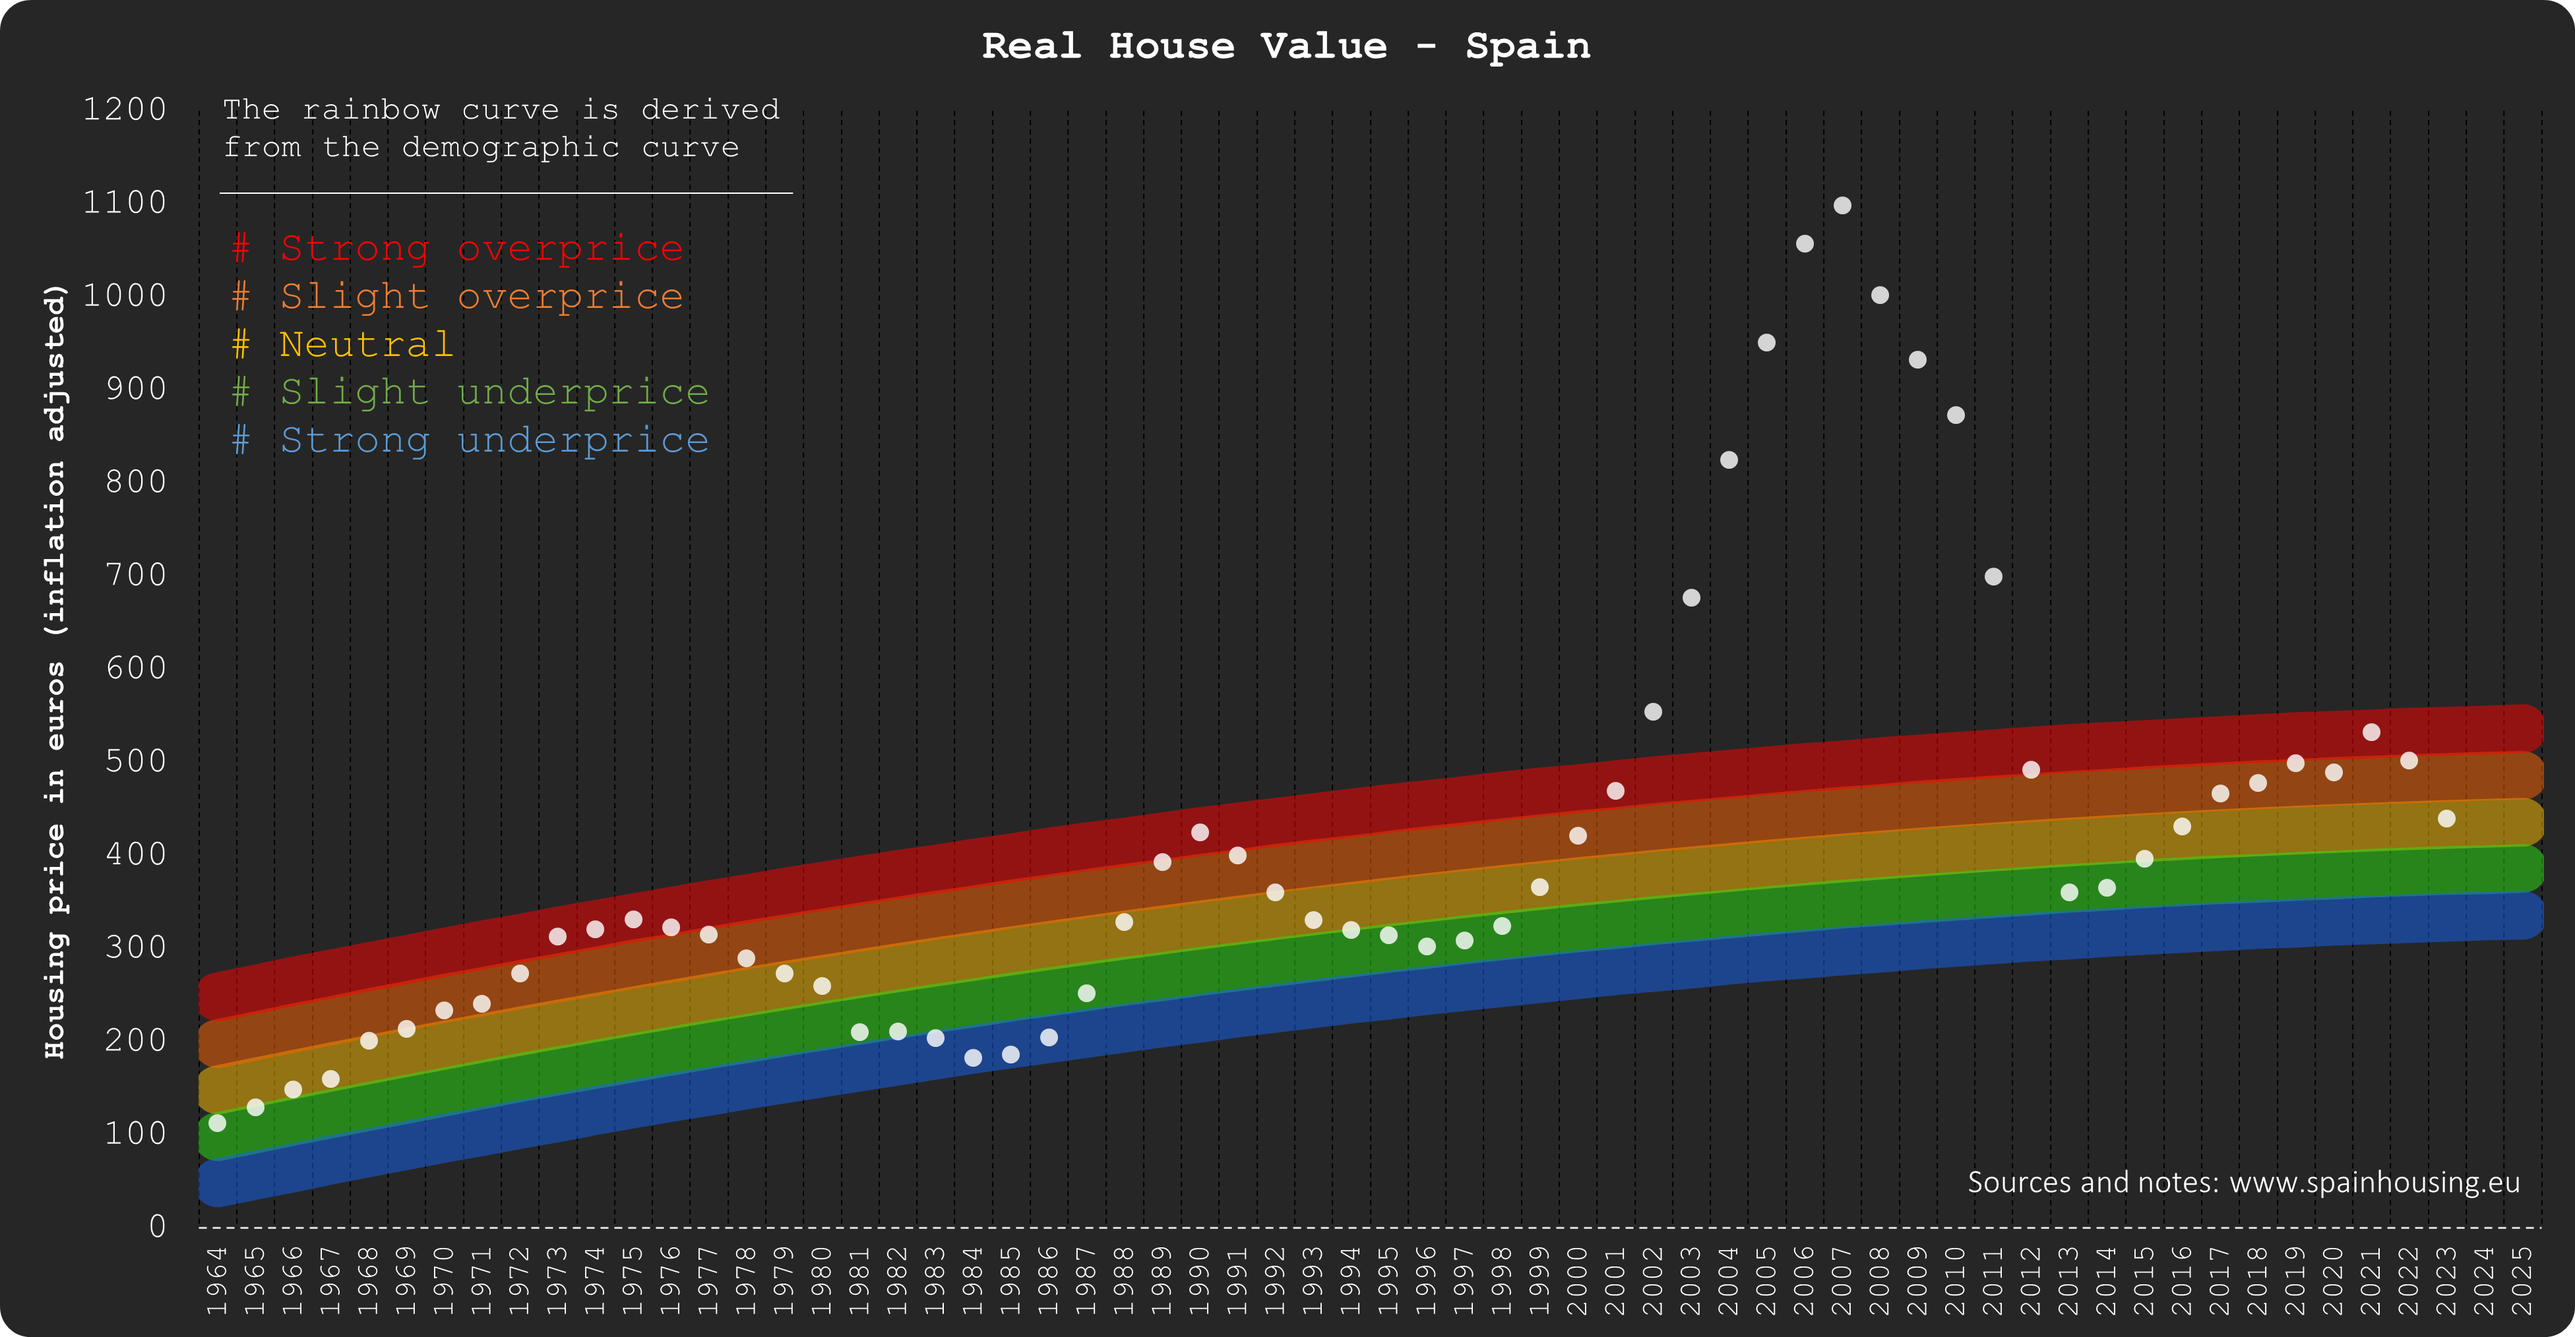
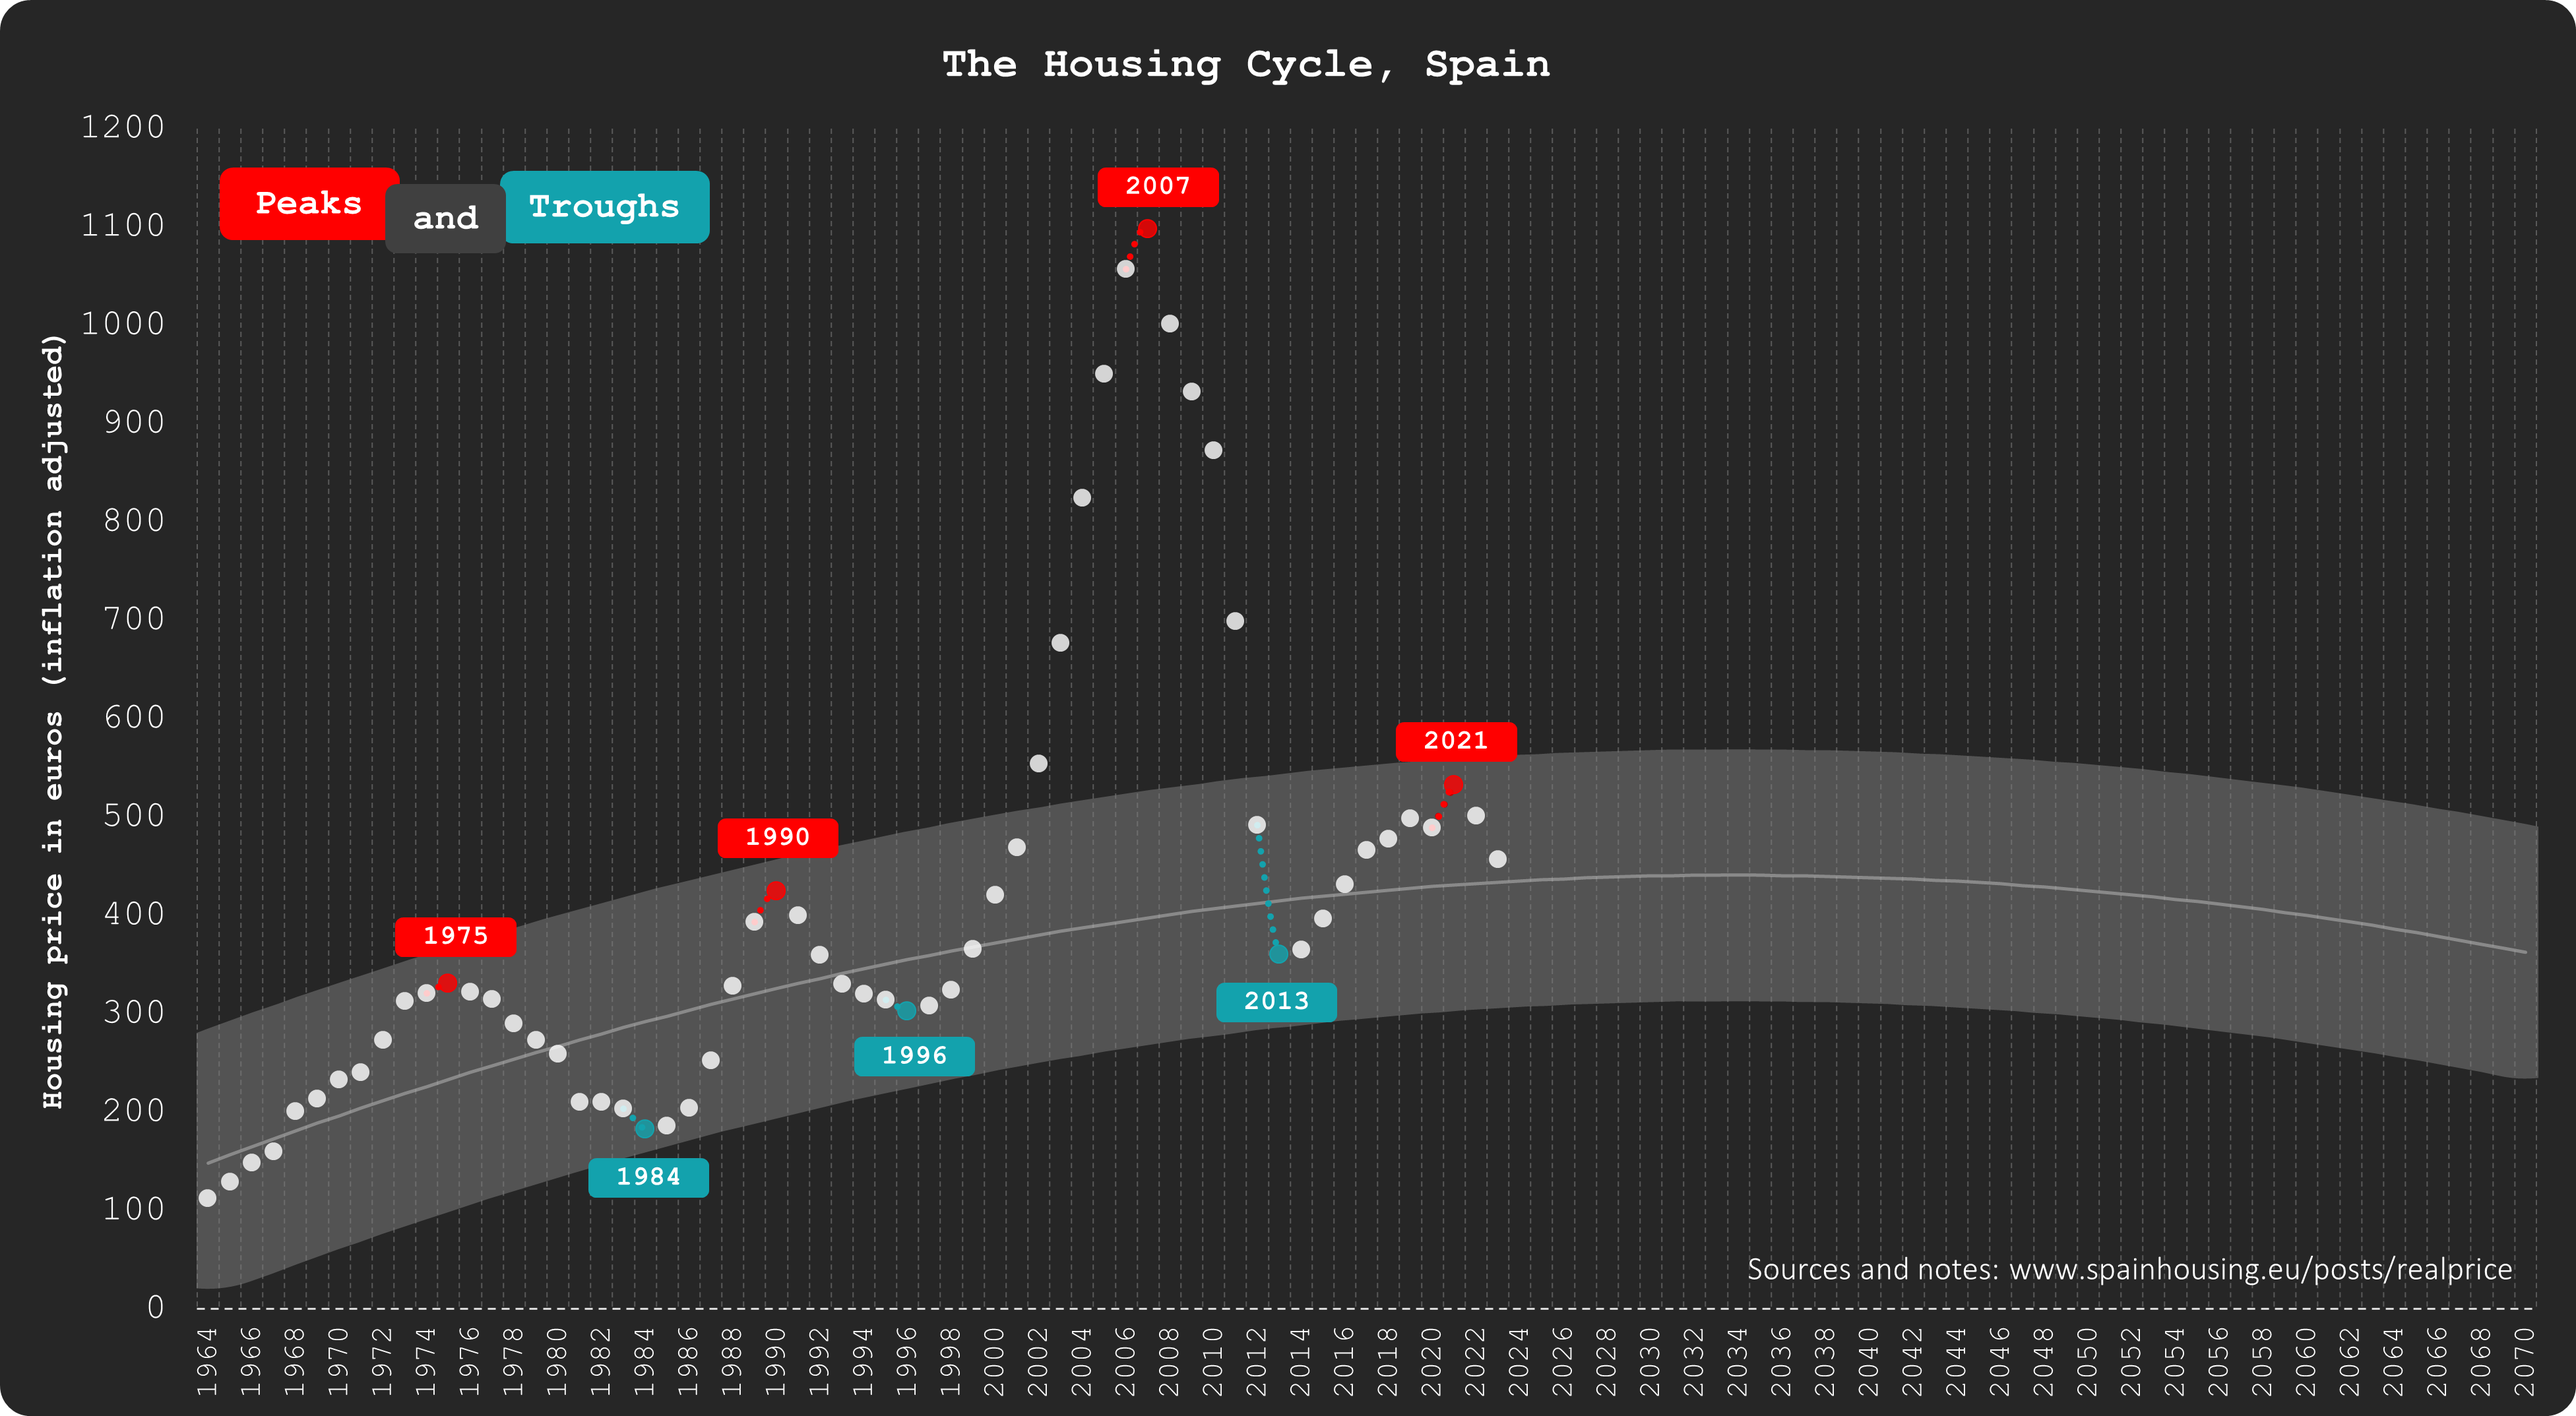
update_sept

diff --git a/pages/posts/rainbow.md b/pages/posts/rainbow.md
@@ -8,9 +8,11 @@ author: Last update on
 
 import Image from 'next/image'
 
-# Rainbow model: housing cycles
+<div class="meta-line"><a class="meta-back" href="/">← Back to home page</a></div>
 
-[![Ciclos inmobiliarios](/images/rainbow.png)](/images/rainbow.png)
+# Demographic model: housing cycles
+
+[![Ciclos inmobiliarios](/images/rainbowmax.png)](/images/rainbowmax.png)
 
 - **Color range interpretation** ➞ **Red** = strong overprice; **Orange** = slightly overprice; **Yellow** = neutral; **Green** = slightly underprice; **Blue** = strong underprice.
 
@@ -21,12 +23,12 @@ This is an experimental indicator, open to improvements and corrections.
 Must be read as an informative indicator, not a scientific measure.
 ```
 
-The rainbow curve describes a demographic channel, which, overlapped with the real price, evaluates the stage of the price cycle. A few notes and considerations:
+The rainbow curve describes a demographic band, which, overlapped with the real price, evaluates the stage of the price cycle. A few notes and considerations:
 
 - The real price data is derived from an alternative formula, [real price notes](realprice).
-- The demographic curve has been price-adjusted, generating the rainbow curve.
-- The equation from the rainbow curve is derived from the demographic curve (quadratic function).
-- The yellow line is the reference line, adding two levels up and two levels down.
+- The rainbow curve is a trendline equation derived from the demographic curve (quadratic function).
+- The derived rainbow curve has been price-adjusted, in order to fit properly with the price pattern.
+- The central line (yellow) is the reference trendline, adding an equidistant band until it convers most peaks and troughs.
 
 Equations chart:
 
@@ -34,7 +36,7 @@ Equations chart:
 
 Full dataset chart, from 1964 to 2070:
 
-[![Reload chart](/images/rainbowmax.png)](/images/rainbowmax.png)
+[![Reload chart](/images/rainbow.png)](/images/rainbow.png)
 
 # Data sources
 

diff --git a/pages/posts/papindex.md b/pages/posts/papindex.md
@@ -8,6 +8,8 @@ author: Explanatory notes about the index
 
 import Image from 'next/image'
 
+<div class="meta-line"><a class="meta-back" href="/">← Back to home page</a></div>
+
 # Purchasing-age population index
 
 The PAP is an index that draws two ceilings based on demographics. The idea is to model rational demand based on population[1].

diff --git a/pages/posts/multivariate.md b/pages/posts/multivariate.md
@@ -8,6 +8,8 @@ author: Last update on
 
 import Image from 'next/image'
 
+<div class="meta-line"><a class="meta-back" href="/">← Back to home page</a></div>
+
 # Multivariate model: housing overview
 
 <div align="center">_[**Dynamic chart**](/multivariate.html)_ / _[**Static chart**](/images/multivariate.png)_</div>

diff --git a/pages/posts/price.md b/pages/posts/price.md
@@ -8,6 +8,8 @@ author: Last update on
 
 import Image from 'next/image'
 
+<div class="meta-line"><a class="meta-back" href="/">← Back to home page</a></div>
+
 # (a) Annual evolution of housing prices
 
 [![Evolución precio de la vivienda](/images/priceyearly.png)](/images/priceyearly.png)

diff --git a/pages/posts/money.md b/pages/posts/money.md
@@ -8,6 +8,8 @@ author: Last update on
 
 import Image from 'next/image'
 
+<div class="meta-line"><a class="meta-back" href="/">← Back to home page</a></div>
+
 # Housing price in different currencies
 
 [![Precio de la vivienda en dolares](/images/housedollar.png)](/images/housedollar.png)

diff --git a/pages/posts/landscarcity.md b/pages/posts/landscarcity.md
@@ -8,6 +8,8 @@ author: Explanatory notes about the index
 
 import Image from 'next/image'
 
+<div class="meta-line"><a class="meta-back" href="/">← Back to home page</a></div>
+
 # Measuring urban land scarcity
 
 [![Land scarcity](/images/landscarcity.png)](/images/landscarcity.png)

diff --git a/pages/posts/ownership.md b/pages/posts/ownership.md
@@ -8,6 +8,8 @@ author: Last update on
 
 import Image from 'next/image'
 
+<div class="meta-line"><a class="meta-back" href="/">← Back to home page</a></div>
+
 # (a) Home sales by type of buyer
 
 [![Nacionalidad de los compradores de vivienda](/images/buyer.png)](/images/buyer.png)

diff --git a/pages/posts/wages.md b/pages/posts/wages.md
@@ -8,6 +8,8 @@ author: Last update on
 
 import Image from 'next/image'
 
+<div class="meta-line"><a class="meta-back" href="/">← Back to home page</a></div>
+
 # Wages and housing affordability
 
 [![Salarios y precio de la vivienda](/images/wageyearly.png)](/images/wageyearly.png)

diff --git a/pages/posts/sales.md b/pages/posts/sales.md
@@ -8,6 +8,8 @@ author: Last update on
 
 import Image from 'next/image'
 
+<div class="meta-line"><a class="meta-back" href="/">← Back to home page</a></div>
+
 # (a) Annual evolution of home sales
 
 [![Compraventa de vivienda](/images/salesyearly1.png)](/images/salesyearly1.png)

diff --git a/pages/posts/roi.md b/pages/posts/roi.md
@@ -8,6 +8,8 @@ author: Last update on
 
 import Image from 'next/image'
 
+<div class="meta-line"><a class="meta-back" href="/">← Back to home page</a></div>
+
 # (a) Housing return on investment
 
 [![Rentabilidad de la vivienda](/images/roigross.png)](/images/roigross.png)

diff --git a/pages/posts/land.md b/pages/posts/land.md
@@ -8,6 +8,8 @@ author: Last update on
 
 import Image from 'next/image'
 
+<div class="meta-line"><a class="meta-back" href="/">← Back to home page</a></div>
+
 # Price of land and building permits
 
 [![Precio del suelo](/images/permitsland.png)](/images/permitsland.png)

diff --git a/pages/posts/labor.md b/pages/posts/labor.md
@@ -8,6 +8,8 @@ author: Last update on
 
 import Image from 'next/image'
 
+<div class="meta-line"><a class="meta-back" href="/">← Back to home page</a></div>
+
 # Unemployment and housing prices
 
 [![Paro y precio de la vivienda](/images/labor1.png)](/images/labor1.png)
